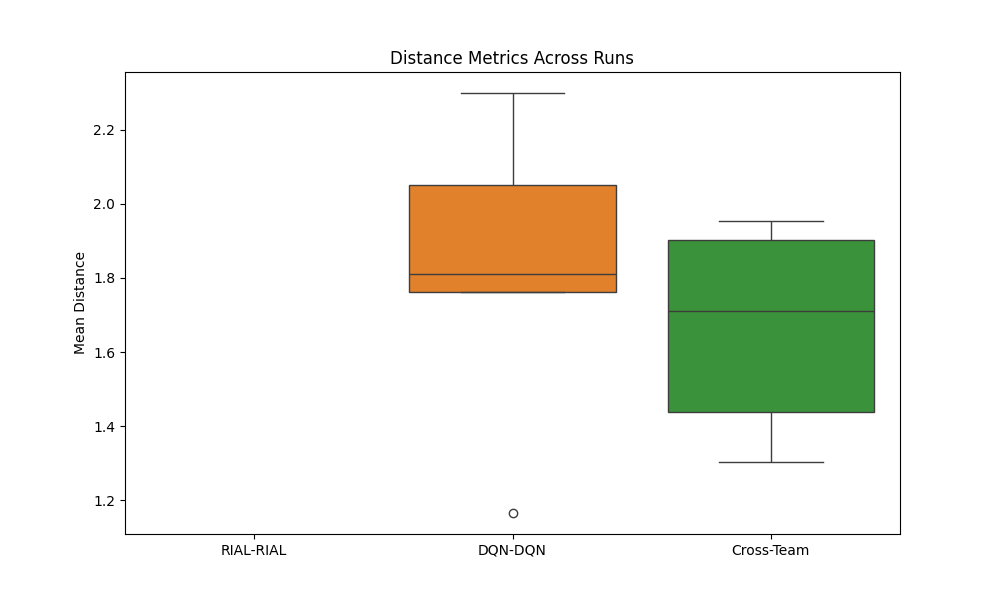
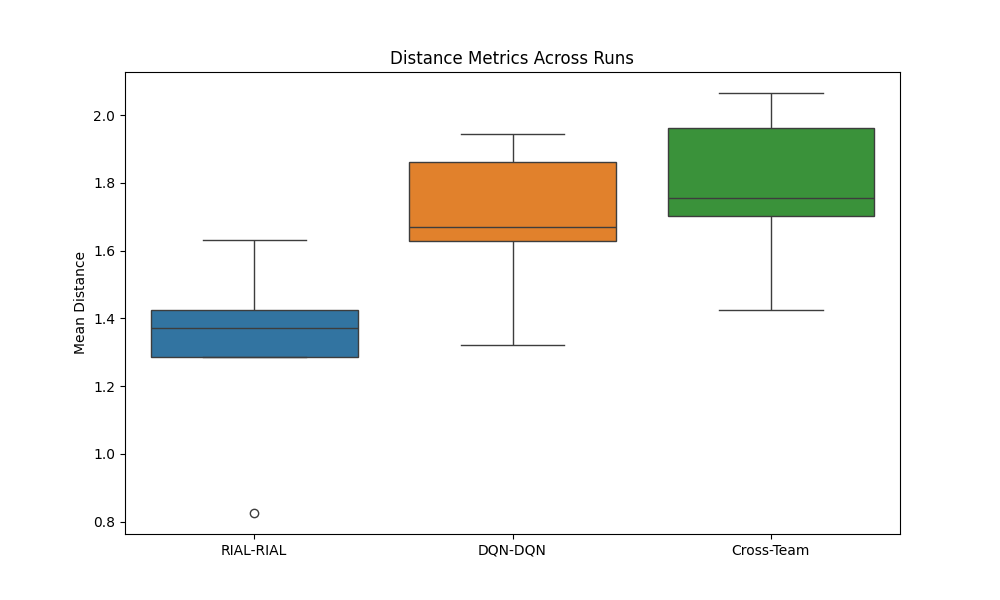
commenting code

diff --git a/compare_results.py b/compare_results.py
@@ -1,5 +1,4 @@
 import numpy as np
-import torch
 import seaborn as sns
 import matplotlib.pyplot as plt
 from scipy import stats
@@ -16,39 +15,58 @@ class MARLExperiment:
     def __init__(self, num_episodes=500, num_runs=3):
         self.num_episodes = num_episodes
         self.num_runs = num_runs
-        self.env = simple_spread_v3.parallel_env()
+        self.env = simple_spread_v3.parallel_env(N=4, local_ratio=0.5)
         self.env.reset()
         
-        # Environment parameters
+        # environmnet parameters
         self.agent_names = list(self.env.agents)
         self.obs_dim = self.env.observation_space(self.agent_names[0]).shape[0]
         self.act_dim = self.env.action_space(self.agent_names[0]).n
         self.num_agents = len(self.agent_names)
+
+        # make sure we have enough agents
+        if self.num_agents < 4:
+            raise ValueError("Environment must have at least 4 agents for this comparison")
         
-        # Results storage
+        # minimum 2 of model on each team
+        self.min_rial = 2
+        self.min_dqn = 2
+
+        # store resutls
         self.run_results = []
         self.aggregated_metrics = defaultdict(list)
 
     def initialize_agents(self):
-        """Initialize both types of agents"""
-        # RIAL components
+        # RIAL 
         self.attention_model = AttentionModule(self.obs_dim)
         self.rial_agent = ImprovedRIALAgent(
             self.obs_dim, self.act_dim, self.num_agents,
             hidden_dim=64, epsilon=0.05
         )
-        
-        # DQN agents
+        # DQN 
         self.dqn_agents = {
             name: DQNAgent(self.obs_dim, self.act_dim, epsilon=0.05)
             for name in self.agent_names
         }
 
+    def assign_teams(self):
+        # team assignment for teh agents
+        team_assignment = {}
+        agents = self.agent_names.copy()
+        np.random.shuffle(agents)
+        team_assignment[agents[0]] = 'rial'
+        team_assignment[agents[1]] = 'rial'
+        team_assignment[agents[2]] = 'dqn'
+        team_assignment[agents[3]] = 'dqn'
+        for agent in agents[4:]: # randomly assign remaining agents if there are any
+            team_assignment[agent] = np.random.choice(['rial', 'dqn'])
+            
+        return team_assignment
+
     def run_episode(self, team_assignment, render=False):
-        """Run one evaluation episode with mixed teams"""
+        # run the evaluation episode
         obs, _ = self.env.reset()
         self.rial_agent.reset_hidden()
-        
         done = {a: False for a in self.env.agents}
         rewards = {'rial': 0, 'dqn': 0}
         metrics = {
@@ -68,8 +86,7 @@ class MARLExperiment:
         while not all(done.values()):
             if render:
                 self.env.render()
-                
-            # Get positions and team assignments
+            # get positions and team assignments
             positions = {}
             teams = {}
             for agent in self.env.agents:
@@ -81,28 +98,24 @@ class MARLExperiment:
                     positions[agent] = np.array([np.nan, np.nan])
                     teams[agent] = None
             
-            # Calculate pairwise distances and collisions
+            # calc pairwise distance and collisions for the agents
             agents = list(positions.keys())
             for i in range(len(agents)):
                 for j in range(i+1, len(agents)):
                     agent1 = agents[i]
                     agent2 = agents[j]
-                    
                     if teams[agent1] is None or teams[agent2] is None:
-                        continue
-                    
+                        continue   
                     try:
                         distance = np.linalg.norm(positions[agent1] - positions[agent2])
                     except:
                         distance = np.inf
                     
-                    # Classify by team combination
+                    # group by team combo
                     team_combo = f"{teams[agent1]}_{teams[agent2]}"
                     if team_combo in ['rial_rial', 'dqn_dqn', 'rial_dqn']:
                         metrics['distances'][team_combo].append(distance)
-                        
-                        # Check for collision (distance < 0.1 units)
-                        if distance < 0.1:
+                        if distance < 0.1:#collision distance is any agents < 0.1 units from each other
                             metrics['collisions'][team_combo] += 1
             
             # RIAL communication and attention
@@ -115,7 +128,7 @@ class MARLExperiment:
             except Exception as e:
                 messages = {agent: np.zeros(self.obs_dim) for agent in self.env.agents}
             
-            # Get actions
+            # get actions to do
             actions = {}
             for agent in self.env.agents:
                 if not done[agent]:
@@ -130,7 +143,7 @@ class MARLExperiment:
                     except:
                         actions[agent] = 0
             
-            # Step environment
+            # next step in environment
             try:
                 next_obs, step_rewards, terms, truncs, _ = self.env.step(actions)
                 
@@ -144,7 +157,7 @@ class MARLExperiment:
                 print(f"Environment step error: {e}")
                 break
         
-        # Compute mean distances for each category
+        # calc mean distance
         for distance_type in metrics['distances']:
             if metrics['distances'][distance_type]:
                 metrics['distances'][distance_type] = np.mean(metrics['distances'][distance_type])
@@ -158,7 +171,6 @@ class MARLExperiment:
         for run in range(self.num_runs):
             print(f"\n=== Starting run {run+1}/{self.num_runs} ===")
             self.initialize_agents()
-            
             run_data = {
                 'rial_rewards': [],
                 'dqn_rewards': [],
@@ -170,26 +182,16 @@ class MARLExperiment:
             
             for episode in tqdm(range(self.num_episodes), desc=f"Run {run+1}"):
                 try:
-                    # Random team assignment
-                    team_assignment = {}
-                    agents = self.agent_names.copy()
-                    np.random.shuffle(agents)
-                    for i, agent in enumerate(agents):
-                        team_assignment[agent] = 'rial' if i < len(agents)//2 else 'dqn'
-                    
-                    # Run episode
+                    team_assignment = self.assign_teams()#assign the teams
+                    # run the episode
                     rewards, metrics = self.run_episode(team_assignment)
-                    
-                    # Store rewards
                     run_data['rial_rewards'].append(rewards['rial'])
                     run_data['dqn_rewards'].append(rewards['dqn'])
-                    
-                    # Store metrics
                     run_data['collisions'].append(metrics['collisions'])
                     run_data['distances'].append(metrics['distances'])
                     run_data['attention_weights'].append(metrics['attention_weights'])
                     
-                    # Determine winner
+                    # get winner
                     if rewards['rial'] > rewards['dqn'] + 0.1:
                         run_data['wins'].append('rial')
                     elif rewards['dqn'] > rewards['rial'] + 0.1:
@@ -201,29 +203,23 @@ class MARLExperiment:
                     print(f"Error in episode {episode}: {e}")
                     continue
             
-            # Store complete run data
+            #store run data
             self.run_results.append(run_data)
             self._aggregate_run_metrics(run, run_data)
 
     def _aggregate_run_metrics(self, run_idx, run_data):
-        """Calculate and store summary metrics for each run"""
-        # Store run index
-        self.aggregated_metrics['run'].append(run_idx)
+        self.aggregated_metrics['run'].append(run_idx)#save the run index
         
-        # Reward metrics
+        # get rewaerds and metrics
         self.aggregated_metrics['rial_reward_mean'].append(np.mean(run_data['rial_rewards']))
         self.aggregated_metrics['rial_reward_std'].append(np.std(run_data['rial_rewards']))
         self.aggregated_metrics['dqn_reward_mean'].append(np.mean(run_data['dqn_rewards']))
         self.aggregated_metrics['dqn_reward_std'].append(np.std(run_data['dqn_rewards']))
-        
-        # Win rates
-        win_counts = pd.Series(run_data['wins']).value_counts()
+        win_counts = pd.Series(run_data['wins']).value_counts()#winrate
         self.aggregated_metrics['rial_wins'].append(win_counts.get('rial', 0))
         self.aggregated_metrics['dqn_wins'].append(win_counts.get('dqn', 0))
         self.aggregated_metrics['draws'].append(win_counts.get('draw', 0))
-        
-        # Collision metrics
-        if run_data['collisions']:
+        if run_data['collisions']:#collisions
             self.aggregated_metrics['rial_rial_collisions'].append(
                 np.mean([c['rial_rial'] for c in run_data['collisions']])
             )
@@ -233,9 +229,7 @@ class MARLExperiment:
             self.aggregated_metrics['cross_collisions'].append(
                 np.mean([c['rial_dqn'] for c in run_data['collisions']])
             )
-        
-        # Distance metrics
-        if run_data['distances']:
+        if run_data['distances']:#distiances
             self.aggregated_metrics['rial_rial_distance'].append(
                 np.nanmean([d['rial_rial'] for d in run_data['distances']])
             )
@@ -245,9 +239,8 @@ class MARLExperiment:
             self.aggregated_metrics['cross_distance'].append(
                 np.nanmean([d['rial_dqn'] for d in run_data['distances']])
             )
-        
-        # Attention metrics
-        if run_data['attention_weights']:
+
+        if run_data['attention_weights']:#attention
             entropies = []
             for ep_weights in run_data['attention_weights']:
                 for step_data in ep_weights:
@@ -265,15 +258,15 @@ class MARLExperiment:
             self.aggregated_metrics['mean_attention_entropy'].append(0)
 
     def analyze_results(self):
-        """Perform statistical analysis across runs"""
         if not self.run_results:
-            print("No results to analyze. Run the experiment first.")
+            print("No results to analyze")
             return
         
-        print("\n=== Run-Level Statistical Analysis ===")
+        #print the results of the differnt stats tests
+        print("\n=== Statistical Analysis ===")
         agg_df = pd.DataFrame(self.aggregated_metrics)
-        
-        # 1. Reward comparison
+
+        #rewards includig mean and std, min, max etc
         print("\n1. Reward Comparison Across Runs:")
         print(agg_df[['rial_reward_mean', 'dqn_reward_mean']].describe())
         
@@ -288,7 +281,7 @@ class MARLExperiment:
         print(f"  t = {t_stat:.2f}, p = {p_val:.4f}")
         print(f"  Cohen's d = {cohens_d:.2f}")
         
-        # 2. Win rate analysis
+        #win rate
         total_episodes = self.num_runs * self.num_episodes
         total_rial_wins = agg_df['rial_wins'].sum()
         total_dqn_wins = agg_df['dqn_wins'].sum()
@@ -299,7 +292,7 @@ class MARLExperiment:
         print(f"  DQN Wins: {total_dqn_wins} ({total_dqn_wins/total_episodes*100:.1f}%)")
         print(f"  Draws: {total_draws} ({total_draws/total_episodes*100:.1f}%)")
         
-        # 3. Behavioral metrics
+        # collision and distance
         print("\n3. Behavioral Metrics Across Runs:")
         print("Collisions:")
         print(f"  RIAL-RIAL: {agg_df['rial_rial_collisions'].mean():.2f} ± {agg_df['rial_rial_collisions'].std():.2f}")
@@ -311,17 +304,13 @@ class MARLExperiment:
         print(f"  DQN-DQN: {agg_df['dqn_dqn_distance'].mean():.2f} ± {agg_df['dqn_dqn_distance'].std():.2f}")
         print(f"  Cross-Team: {agg_df['cross_distance'].mean():.2f} ± {agg_df['cross_distance'].std():.2f}")
         
-        if 'mean_attention_entropy' in agg_df:
-            print(f"\nAttention Entropy: {agg_df['mean_attention_entropy'].mean():.2f} ± {agg_df['mean_attention_entropy'].std():.2f}")
-        
-        # Generate visualizations
+        # make visualizations
         self._generate_plots(agg_df)
 
     def _generate_plots(self, agg_df):
-        """Generate all analysis plots"""
         os.makedirs("analysis_plots", exist_ok=True)
         
-        # 1. Reward comparison
+        #reward comparison
         plt.figure(figsize=(10, 6))
         sns.boxplot(data=agg_df[['rial_reward_mean', 'dqn_reward_mean']],
                     palette=['orange', 'blue'])
@@ -330,7 +319,7 @@ class MARLExperiment:
         plt.savefig("analysis_plots/reward_comparison.png")
         plt.close()
         
-        # 2. Win rate proportions
+        # win rate pie chart
         plt.figure(figsize=(8, 6))
         wins = [
             agg_df['rial_wins'].sum(),
@@ -343,7 +332,7 @@ class MARLExperiment:
         plt.savefig("analysis_plots/win_rates.png")
         plt.close()
         
-        # 3. Collision metrics
+        #collision 
         plt.figure(figsize=(10, 6))
         collision_data = pd.DataFrame({
             'RIAL-RIAL': agg_df['rial_rial_collisions'],
@@ -356,7 +345,7 @@ class MARLExperiment:
         plt.savefig("analysis_plots/collision_metrics.png")
         plt.close()
         
-        # 4. Distance metrics
+        # distance 
         plt.figure(figsize=(10, 6))
         distance_data = pd.DataFrame({
             'RIAL-RIAL': agg_df['rial_rial_distance'],
@@ -369,7 +358,7 @@ class MARLExperiment:
         plt.savefig("analysis_plots/distance_metrics.png")
         plt.close()
         
-        # 5. Learning curves
+        # mean learning curves across all runs
         plt.figure(figsize=(12, 6))
         for run_data in self.run_results:
             plt.plot(pd.Series(run_data['rial_rewards']).rolling(20, min_periods=1).mean(),
@@ -377,7 +366,6 @@ class MARLExperiment:
             plt.plot(pd.Series(run_data['dqn_rewards']).rolling(20, min_periods=1).mean(),
                      color='blue', alpha=0.3)
         
-        # Plot mean learning curves
         all_rial = np.array([run['rial_rewards'] for run in self.run_results])
         all_dqn = np.array([run['dqn_rewards'] for run in self.run_results])
         mean_rial = pd.DataFrame(all_rial.T).rolling(20, min_periods=1).mean().mean(axis=1)
